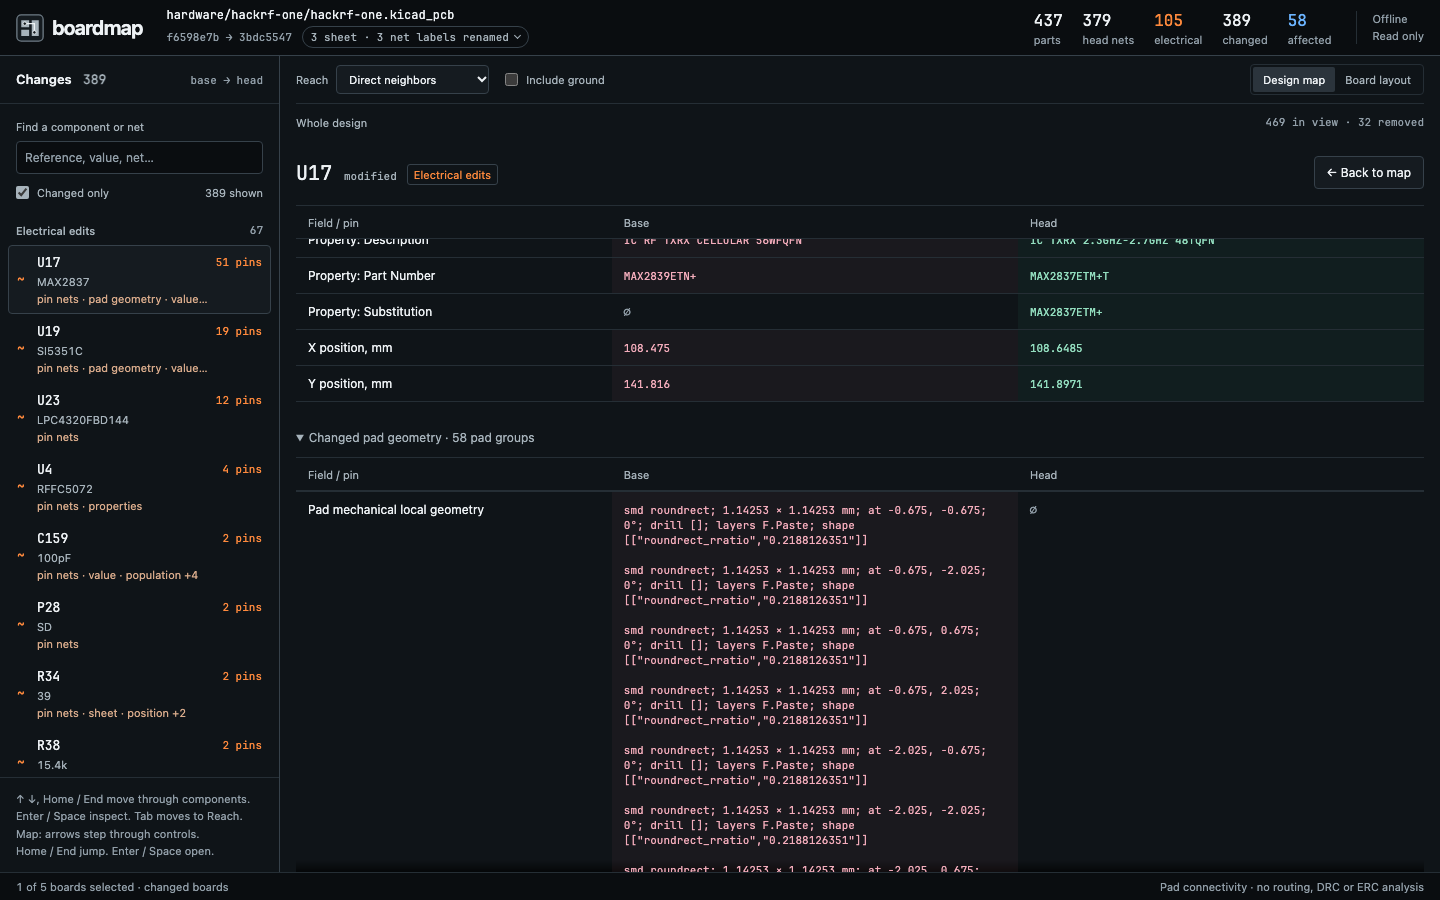
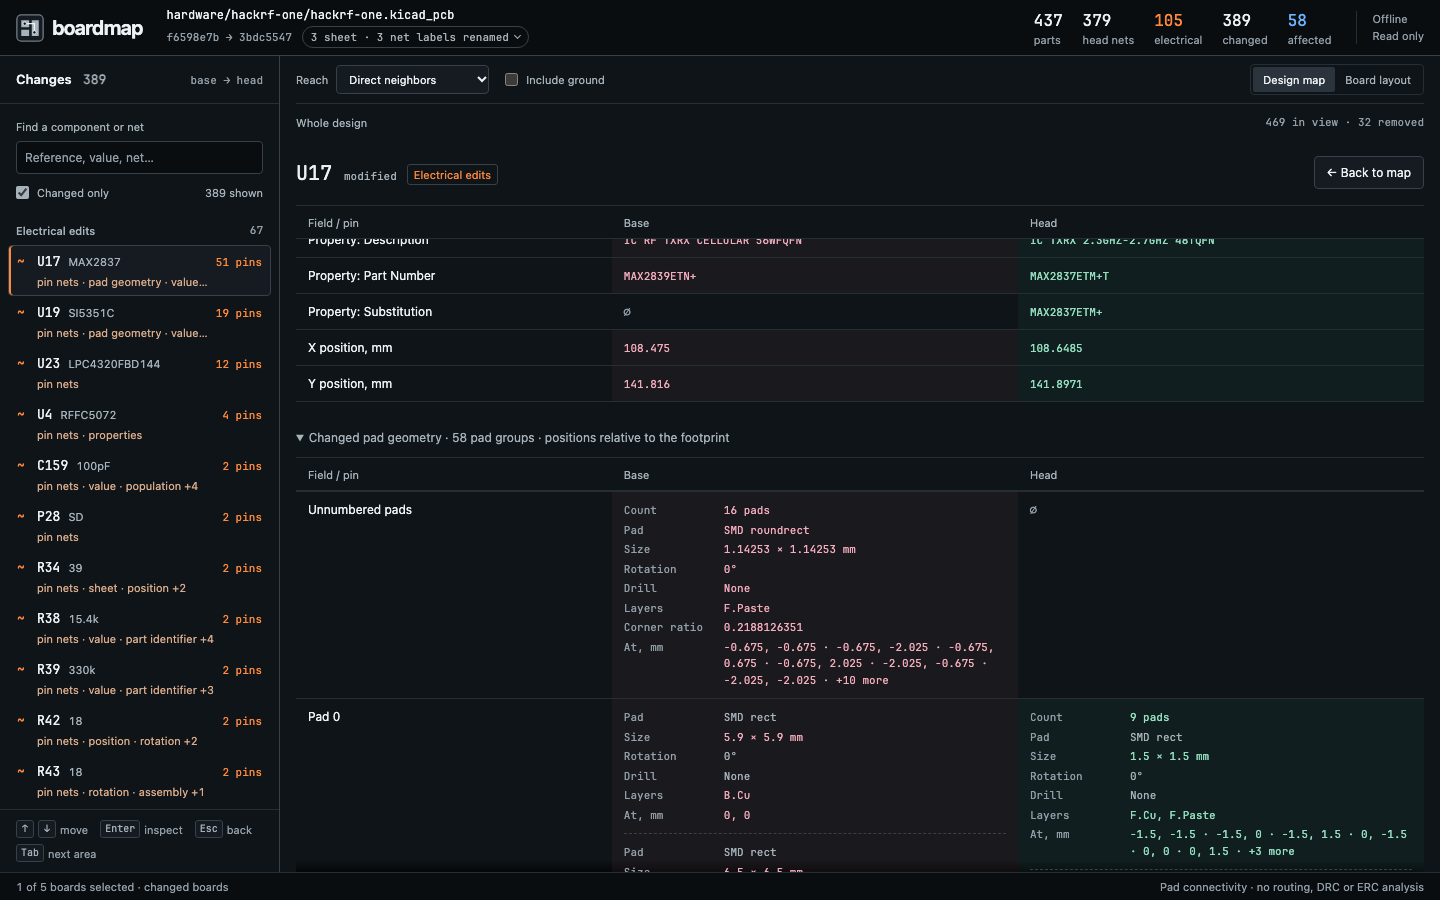
Capture readable pad geometry

diff --git a/docs/media/ui/README.md b/docs/media/ui/README.md
@@ -7,7 +7,7 @@ Actual Chromium captures of the running UI on the pinned HackRF PR 1411 and Corn
 | `renames/renames-desktop.png` | 1440 × 900 | The rename pill sits beside the revision. Its panel opens below the header, groups sheet and net labels, and closes with Escape, an outside click or its Close control. |
 | `renames/renames-phone.png` | 390 × 844 | The pill shortens to a count. The panel fills the phone width and scrolls inside itself when the list is long. |
 | `inspector/inspector-neighbors.png` | 1440 × 900 | U17's 160 neighbors scroll inside the disclosure under sticky net headings. The pad regions stay one scroll away. |
-| `inspector/inspector-geometry.png` | 1440 × 900 | Changed pad geometry scrolls inside its own bounded disclosure. |
+| `inspector/inspector-geometry.png` | 1440 × 900 | Changed pad geometry scrolls inside its own bounded disclosure. Each pad group lists named properties with units, repeated pads share one description, and only changed values carry color. |
 | `inspector/inspector-unchanged.png` | 1440 × 900 | An unchanged part has no red or green cells. |
 | `inspector/inspector-added.png`, `inspector/inspector-removed.png` | 1440 × 900 | Only the revision that holds the part carries color. The other side shows a muted empty mark. |
 | `map/hackrf/map-idle.png`, `map/corne/map-idle.png` | 1440 × 900 | Sheet headers count their electrical changes. The legend counts every tile class in view. The idle readout holds the trace key and the three largest electrical changes. |
